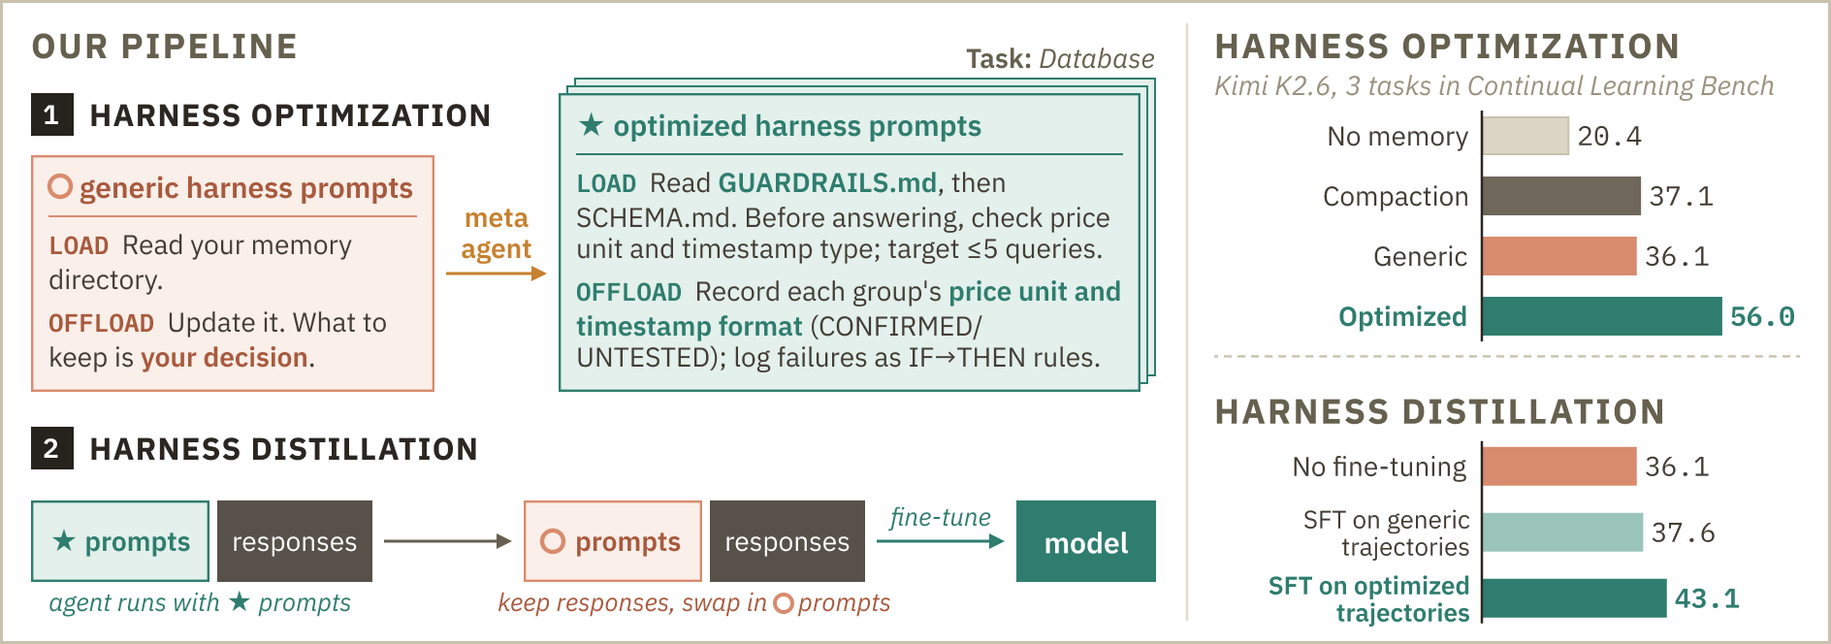
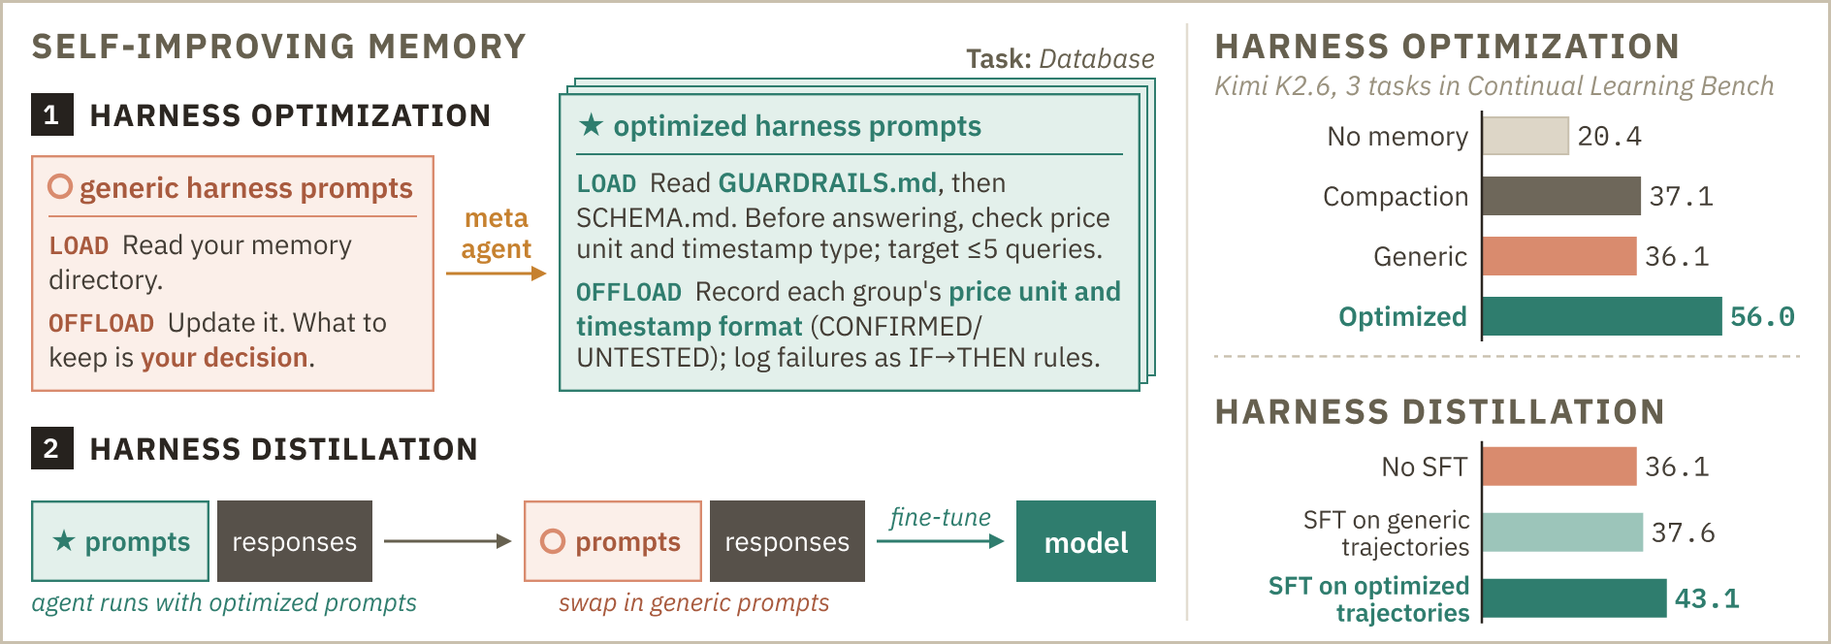
Self-Improving Memory blog: update figures, captions, and wording (#137)
* Update Self-Improving Memory blog figures, captions, and motivation

Figure 1 (teaser v37): retitle the left side "Self-Improving Memory", simplify the prompt captions, and rename the distillation baseline to No SFT. Figure 3 (method overview v20): number the steps 1, 2a, 2b to match the two stages. Figure 5: merge the two panels into one image. Figure 7 (distillation v08): rename No fine-tuning to No SFT.

Make the Figure 1 caption the post overview and drop the separate Overview section. Rewrite all figure captions to be short and self-contained, and state 95% CIs for the error bars. Rewrite the motivation as three steps: agents learn from experience through persistent memory, no single hand-written memory design wins on every Continual Learning Bench task, so the model should design its own memory for each task. Retitle the sections "Motivation: Memory skills should be learned" and "Method: Self-Improving Memory", spell out Continual Learning Bench, and remove semicolons from the prose.

* Self-Improving Memory blog: clarify task vs test score wording

Syncs projects/self_improving_memory/README.md with fairinternal/RAM 67cc670 (jaseweston).

diff --git a/projects/self_improving_memory/README.md b/projects/self_improving_memory/README.md
@@ -86,9 +86,9 @@ MathJax = {
   <a href="fig1_teaser.png"><img src="fig1_teaser.png" alt="Figure 1: the Self-Improving Memory framework, harness optimization and harness distillation, with the results of each" /></a>
 </div>
 
-<p class="sim-figure-hint">Swipe to explore the figure; tap to open it at full size.</p>
+<p class="sim-figure-hint">Swipe to explore the figure, or tap to open it at full size.</p>
 
-_Figure 1. **Self-Improving Memory.** Our framework includes harness optimization and harness distillation. With harness optimization, we reach an average test score of 56.0, compared with 44.6 for the best hand-written prompts and 36.1 for generic prompts. With harness distillation, the fine-tuned model reaches 43.1 using only generic prompts, compared with 37.6 for a model fine-tuned on its own generic-prompt runs._
+_Figure 1. **A model (Kimi-K2.6) teaches itself better memory capabilities.** It first rewrites its own memory prompts for each task, keeping the versions that score best (harness optimization). It then runs with those prompts, swaps them back to generic ones in the recorded runs, and is fine-tuned on the result, so part of what the prompts taught moves into its weights (harness distillation). On three Continual Learning Bench tasks, its optimized prompts beat the best hand-written ones (56.0 vs 44.6). After fine-tuning, it scores 43.1 with only generic prompts, compared with 37.6 when trained on its generic-prompt runs._
 
 ## Overview
 
@@ -104,25 +104,22 @@ In harness distillation, the task agent runs with the optimized prompts, we swap
 The meta agent and the task agent use the same model (Kimi-K2.6), so the model is trained on memory skills it discovered itself.
 Training carries part of the gain from better prompts into the model's weights.
 
-## Motivation: No single memory design wins all tasks
 
-**Memory helps agents learn from experience.**
-An agent working through a stream of related subtasks keeps running into the same things: the same database tables, the same kinds of bugs, the same transmitters on the radio band.
-If it writes down what it learns, later subtasks get easier.
-In our setting, every subtask starts in a fresh session with an empty context; the only thing that carries over from one session to the next is a persistent memory directory, which the agent reads and writes with file tools.
+## Motivation: Memory skills should be learned
 
-**We tested this on three tasks from Continual Learning Bench (CL-Bench) 1.0.**
-In Database, the agent answers questions about a SQLite database it has never seen.
-In Codebase, it fixes bugs in Python repositories.
-In Spectrum, it works out which radio channels are occupied from noisy scans.
+**Agents can improve with experience.**
+An agent that works on multiple related tasks can pick up reusable knowledge from earlier tasks and apply it to later ones.
+Persistent memory makes this possible by letting information pass beyond the boundary of a single task.
+In our setting, every subtask starts in a fresh session with an empty context, and the only thing that carries over is a persistent memory directory that the agent reads and writes with file tools.
 
-**How the agent should use that directory is less clear.**
-We kept the scaffold (OpenCode) and the task agent (Kimi-K2.6) fixed and changed only two prompts: LOAD, shown before each subtask, and OFFLOAD, shown after it.
-Together they tell the agent what to write down, how to organize it, and when to read it back.
-We wrote four versions, each built around a different memory representation, and none of them wins on all three tasks (Figure 2).
+**No single memory design wins on every task.**
+We ran agents on three tasks from Continual Learning Bench 1.0 (database question answering, code repair, and spectrum monitoring) with several hand-engineered memory designs, each built around a different memory representation.
+Each design is a pair of prompts: one for offloading what the agent learned into memory after a task (a step also known as dreaming), and one for loading from memory before the next.
+Echoing the findings of Continual Learning Bench, no single design is best on all tasks (Figure 2).
 
-The right way to use memory depends on the task, and whoever writes the prompt has to guess it.
-Our goal is to teach the model to work this out itself: to learn, for each task, what to remember, how to organize it, and when to read it back.
+**So the model should learn its own memory design.**
+Rather than following a hand-written design, it should decide what to write, how to organize it, and what to recall.
+Self-Improving Memory does this in two stages, harness optimization and harness distillation, which we describe next.
 
 <a id="fig-tasks-vs-harness"></a>
 
@@ -130,27 +127,32 @@ Our goal is to teach the model to work this out itself: to learn, for each task,
   <a href="fig2_tasks_vs_harness.png"><img src="fig2_tasks_vs_harness.png" alt="Figure 2: the three tasks with example subtasks, and test scores of the generic and four human-written harnesses" /></a>
 </div>
 
-<p class="sim-figure-hint">Swipe to explore the figure; tap to open it at full size.</p>
+<p class="sim-figure-hint">Swipe to explore the figure, or tap to open it at full size.</p>
 
-_Figure 2. **No single memory representation wins every task.** Left: the three tasks with an example subtask (input, intermediate tool calls, and the submitted answer or solution). Right: test scores of the generic harness and four human-written harnesses; a triangle marks the best of the five per task._
+_Figure 2. **No single memory representation wins every task.** Left: the three tasks, each with an example subtask (input, tool calls, answer). Right: test scores of the generic harness and four hand-written harnesses that differ only in their memory instructions. ▼ marks the best per task._
 
-## Self-Improving Memory
+## Method: Self-Improving Memory
 
 Our goal is to optimize a task model's weights for continual learning tasks under a fixed generic harness.
-To achieve this, we propose Self-Improving Memory, which follows a Discover-Demonstrate-Distill pipeline: a meta agent first discovers memory-management skills through harness optimization; the task agent then generates trajectories that demonstrate these skills; finally, we distill the demonstrated skills into model weights.
+To achieve this, we propose Self-Improving Memory, which follows a Discover-Demonstrate-Distill pipeline: a meta agent first discovers memory-management skills through harness optimization, the task agent then generates trajectories that demonstrate these skills, and finally we distill the demonstrated skills into model weights.
 Because the meta agent and the task agent use the same model, this process updates the task model's weights to internalize skills discovered by the model itself.
 
-### The generic harness
+### Setup: The generic harness
 
 A *task agent* consists of a task model and a harness.
 We use a file system as persistent memory in our *generic harness*.
 The memory directory starts empty and persists throughout the task stream.
-The generic harness provides file read, write, and edit tools together with two task-independent instructions.
-After a subtask is scored, OFFLOAD asks the task agent to update its persistent memory using the completed interaction.
+The harness provides file-reading, writing, and editing tools, along with two task-independent instructions: LOAD and OFFLOAD.
+After each subtask is scored, an OFFLOAD prompt instructs the model to update its persistent memory based on the completed interaction.
 The live context is then cleared.
-Before the next subtask, LOAD asks the task agent to recover useful information from the memory directory.
-These instructions specify when the agent should interact with memory without prescribing a task-specific representation such as a schema table, skill library, or entity inventory.
-As shown in Figure 3, files rather than a summary in the live context carry information across the subtask boundary.
+Before the next subtask begins, a LOAD prompt allows the model to retrieve relevant information from memory.
+The model may read memory files immediately at the start of a subtask (e.g., README.md) or defer doing so until later in the problem-solving process.
+In the generic harness, the LOAD and OFFLOAD instructions are deliberately concise: they simply direct the model to manage its memory through file-tool calls while leaving the specific strategy to the model itself.
+These instructions can, however, be made more detailed and prescriptive.
+For example, by specifying when the agent should access memory or how information should be organized into tables, skill libraries, or entity inventories.
+We explore such designs in the next subsection.
+
+<!-- As shown in Figure 3 (left), files rather than a summary in the live context carry information across the subtask boundary. -->
 
 <a id="fig-method"></a>
 
@@ -158,24 +160,24 @@ As shown in Figure 3, files rather than a summary in the live context carry info
   <a href="fig3_method.png"><img src="fig3_method.png" alt="Figure 3: method overview" /></a>
 </div>
 
-<p class="sim-figure-hint">Swipe to explore the figure; tap to open it at full size.</p>
+<p class="sim-figure-hint">Swipe to explore the figure, or tap to open it at full size.</p>
 
-_Figure 3. Self-Improving Memory learns memory-management behavior while keeping the generic harness fixed at deployment._
+_Figure 3. **The generic harness and the two stages.** Left: before and after each subtask, LOAD and OFFLOAD prompts make the task agent read and update a memory directory. The context is then cleared, so only the memory files carry over. Right: (1) a meta agent revises the prompts from trajectories and scores. (2a) The agent runs with the optimized prompts, which we then replace with the generic ones so that in (2b) we can fine-tune on these trajectories, with the loss on the model's outputs (dark blocks)._
 
 ### Harness Optimization
 
-We discover task-specific memory-management skills by optimizing the harness instructions.
+Our method first discovers task-specific memory-management skills by optimizing the harness instructions.
 To learn effective memory designs, the agent needs guidance on what to extract from experience, how to organize it, and what to retrieve for later subtasks.
 We therefore make the instructions at the LOAD and OFFLOAD stages learnable, allowing the search to shape both how the agent uses memory and how it updates memory.
 We implement these instructions as two Markdown files that the harness supplies to the task model at the corresponding stages.
-Our meta-optimization loop analyzes task-agent trajectories and evaluates different memory designs to find LOAD and OFFLOAD instructions that maximize the task agent's mean test score.
+Our meta-optimization loop analyzes task-agent trajectories and evaluates different memory designs to find LOAD and OFFLOAD instructions that maximize the task agent's mean score.
 
-The meta-optimization loop consists of a *meta agent*, which analyzes trajectories and scores from the train subtasks to propose revised harness instructions, and an *outer loop*, which evaluates the resulting harnesses and uses test scores to select promising designs for further revision.
+The meta-optimization loop consists of a *meta agent*, which analyzes trajectories and task scores from the train subtasks to propose revised harness instructions, and an *outer loop*, which evaluates the resulting harnesses and uses the resulting task scores to select promising designs for further revision.
 We implement this search as follows:
 
 - **Initialize the pool.** We start with four human-written harnesses representing summary, retrieval, skill-library, and hypothesis-tracking memory designs.
 - **Evaluate the harnesses.** For each unevaluated candidate, the task agent executes the full task stream five times, producing trajectories, subtask scores, and memory directories.
-- **Select promising designs.** We rank the pool by mean test score across the five runs and select the top four harnesses as parents for revision.
+- **Select promising designs.** We rank the pool by mean task score across the five runs and select the top four harnesses as parents for revision.
 - **Analyze experience and propose new designs.** For each parent, a meta agent receives the task-agent message lists, subtask scores, and final memory directories from the train subtasks. It identifies failures in how the task agent constructs or reuses memory and proposes instruction changes to address them. To analyze the long trajectories, it first summarizes each subtask, then analyzes each complete run, and finally consolidates evidence across runs into revised LOAD and OFFLOAD instructions. Each revised instruction pair enters the pool as a new candidate for evaluation.
 
 We repeat this procedure for a given number of iterations and select the highest-ranking surviving harness.
@@ -184,11 +186,11 @@ We repeat this procedure for a given number of iterations and select the highest
 
 **Demonstrate.**
 We turn the discovered memory-management and task-solving behaviors into training demonstrations under the generic harness.
-For each task, we select the harness with the highest mean test score and run the base task model under this optimized harness on the train subtasks.
+For each task, we select the harness with the highest mean task score and run the base task model under this optimized harness on the train subtasks.
 We log every language model call, including its prompt, response, reasoning content, tool calls and arguments, and the corresponding tool responses.
 We then replace the optimized LOAD and OFFLOAD instructions wherever they appear in the recorded history with their generic counterparts.
 This replacement works because the demonstrated behavior stays compatible with the generic instructions: the optimized harness specifies a memory design, while the generic harness leaves those choices to the model.
-Compatible behaviors include *organizing memory files* (`QUICKSTART.md` for repository metadata, `REGISTRY.md` for reusable fixes, and `SCHEMA.md` for schema facts), *recording useful facts* (table relationships, column types, price units, timestamp encodings, and test commands), and *reusing problem-solving strategies* (running tests before editing, checking analogous functions, and verifying join keys before aggregation).
+For example, compatible behaviors include *organizing memory files* (`QUICKSTART.md` for repository metadata, `REGISTRY.md` for reusable fixes, and `SCHEMA.md` for schema facts), *recording useful facts* (table relationships, column types, price units, timestamp encodings, and test commands), and *reusing problem-solving strategies* (running tests before editing, checking analogous functions, and verifying join keys before aggregation).
 
 **Distill.**
 For $K$ tasks, let $\mathcal D_k$ denote the transformed demonstrations from the train subtasks of task $k$.
@@ -206,7 +208,7 @@ $$
 $$
 
 Here $A_\tau$ indexes assistant tokens, including reasoning and tool calls, while instructions, task requests, and tool responses provide context and are masked from the loss.
-The count $N_k=\sum_{\tau\in\mathcal D_k}|A_\tau|$ is the number of supervised tokens for task $k$; normalization by $N_k$ and averaging over $K$ tasks give each task equal weight.
+The count $N_k=\sum_{\tau\in\mathcal D_k}|A_\tau|$ is the number of supervised tokens for task $k$. Normalization by $N_k$ and averaging over $K$ tasks give each task equal weight.
 This objective trains the model to internalize the demonstrated capabilities in its weights and reproduce them under generic memory instructions.
 
 
@@ -217,10 +219,10 @@ For each task, we initialize the search with four human-written seed harnesses: 
 We run four search generations on Database and Codebase and three on Spectrum, generating four new harnesses per generation and evaluating each candidate over five complete task runs.
 We finetune Kimi-K2.6 with LoRA applied to attention projections, using rank 8, scaling factor 16, and no dropout.
 
-We cut each CL-Bench task stream into train and test subtasks at an environment transition: Database moves to a migrated database, Codebase to new repositories, and Spectrum from wideband to narrowband activity.
-The meta agent analyzes only train trajectories and distillation trains only on them; test subtasks are used for scoring.
+We cut each Continual Learning Bench task stream into train and test subtasks at an environment transition: Database moves to a migrated database, Codebase to new repositories, and Spectrum from wideband to narrowband activity.
+The meta agent analyzes only train trajectories and distillation trains only on them. Test subtasks are used for scoring.
 
-We compare four settings to assess the effects of persistent memory and model finetuning. *No memory* clears the base model's context at each subtask boundary with neither a summary nor a memory directory, so no information carries over between subtasks. *Summary-based compaction* summarizes the base model's context at the boundary and passes the summary to the next subtask. Under the *Generic harness*, the base model uses the task-independent LOAD and OFFLOAD instructions defined above, with files carrying information across subtask boundaries. The *Generic harness with a finetuned model* compares supervised finetuning (SFT) on two sets of trajectories: *SFT on generic trajectories*, collected with the generic harness, and *SFT on optimized trajectories* (Harness Distillation), the Self-Improving Memory model trained on optimized-harness trajectories rewritten with generic instructions; both finetuned models use the same instructions and tools during evaluation, and the base model under the generic harness is the *No fine-tuning* reference.
+We compare four settings to assess the effects of persistent memory and model finetuning. *No memory* clears the base model's context at each subtask boundary with neither a summary nor a memory directory, so no information carries over between subtasks. *Summary-based compaction* summarizes the base model's context at the boundary and passes the summary to the next subtask. Under the *Generic harness*, the base model uses the task-independent LOAD and OFFLOAD instructions defined above, with files carrying information across subtask boundaries. The *Generic harness with a finetuned model* compares supervised finetuning (SFT) on two sets of trajectories: *SFT on generic trajectories*, collected with the generic harness, and *SFT on optimized trajectories* (Harness Distillation), the Self-Improving Memory model trained on optimized-harness trajectories rewritten with generic instructions. Both finetuned models use the same instructions and tools during evaluation, and the base model under the generic harness is the *No SFT* reference.
 
 ### Automatic harness optimization delivers substantial gains
 
@@ -228,7 +230,7 @@ We select the best observed optimized harness separately for each task.
 Averaging the three selected task scores gives a mean of 56.0, an improvement of 11.4 points over the human-written seeds selected for each task and 19.9 points over Generic (Figure 4).
 The optimized harnesses improve over the selected human-written seeds on all three tasks, with the largest gain on Codebase (20.6 points).
 On Spectrum, Generic and Optimized have nearly the same raw first-subtask score (21.7 and 21.9), but reach test means of 42.5 and 49.9 as experience accumulates (Figure 5a).
-Both the human-written seeds and optimized harnesses are selected by test score, so these are the best observed scores among evaluated candidates.
+Both the human-written seeds and optimized harnesses are selected by task score, so these are the best observed scores among evaluated candidates.
 
 <a id="fig-harness-results"></a>
 
@@ -236,9 +238,9 @@ Both the human-written seeds and optimized harnesses are selected by test score,
   <a href="fig4_harness_results.png"><img src="fig4_harness_results.png" alt="Figure 4: harness optimization results per task" /></a>
 </div>
 
-<p class="sim-figure-hint">Swipe to explore the figure; tap to open it at full size.</p>
+<p class="sim-figure-hint">Swipe to explore the figure, or tap to open it at full size.</p>
 
-_Figure 4. **The optimized harnesses improve over the selected human-written seeds on all three tasks.** Harness optimization results. +N is the gain over the best human-written harness per task._
+_Figure 4. **Optimized harnesses beat the best hand-written harness on every task.** Error bars show 95% CIs. Best human-written is the best of the four hand-written harnesses for each task, and +N is the Optimized gain over it._
 
 ### Meta-optimization requires evaluation and selection
 
@@ -248,21 +250,20 @@ Progress therefore depends on evaluating proposals and retaining the best observ
 
 <a id="fig-learning-search"></a>
 
-<div class="sim-figure sim-figure--pair">
-  <a href="fig5a_subtask_curves.png"><img src="fig5a_subtask_curves.png" alt="Figure 5a: performance across subtasks" /></a>
-  <a href="fig5b_search_trace.png"><img src="fig5b_search_trace.png" alt="Figure 5b: progress of harness optimization" /></a>
+<div class="sim-figure" style="--figure-width: 100%; --mobile-width: 900px;">
+  <a href="fig5_learning_and_search.png"><img src="fig5_learning_and_search.png" alt="Figure 5: left, subtask scores across the task stream. Right, every harness evaluated during the search" /></a>
 </div>
 
-<p class="sim-figure-hint">Swipe to explore the figure; tap to open it at full size.</p>
+<p class="sim-figure-hint">Swipe to explore the figure, or tap to open it at full size.</p>
 
-_Figure 5. Learning across subtasks and progress of harness optimization. (a) Performance across subtasks. Curves use the same runs as the bars in Figure 4 and are smoothed separately on each side of the train/test transition. (b) Progress of harness optimization. Each point is one evaluated harness; the step line shows the best observed score. Steps 0 and 1 denote Generic and human-written seeds; subsequent steps are search iterations._
+_Figure 5. **Learning across subtasks, and search progress.** Left: subtask scores for the runs in Figure 4, where the dashed line marks the train/test environment shift. Right: each dot is one evaluated harness (iteration 0: Generic, iteration 1: hand-written seeds, iterations 2 and later: harnesses proposed by the meta agent). The line tracks the best score so far._
 
 ### Case Study of Meta-Optimization
 
 Figure 6 illustrates how trajectory reports guide revisions of the Codebase memory harness.
-The Summary harness scores 34.3, barely above Generic at 33.5 and well below the best seed at 43.7; its report identifies growing monolithic notes and repeated repository discovery.
+The Summary harness scores 34.3, barely above Generic at 33.5 and well below the best seed at 43.7. Its report identifies growing monolithic notes and repeated repository discovery.
 A revision that reuses recorded paths and retains failure rules scores 52.2.
-The next report diagnoses an append-only file without an index mapping symptoms to fixes; a revision with a compact quickstart, an indexed registry, and separate fix files scores 55.7.
+The next report diagnoses an append-only file without an index mapping symptoms to fixes, and a revision with a compact quickstart, an indexed registry, and separate fix files scores 55.7.
 An alternative Summary revision that retains details of only the last two fixes scores 36.6.
 
 <a id="fig-case-meta-optimization"></a>
@@ -271,18 +272,18 @@ An alternative Summary revision that retains details of only the last two fixes 
   <a href="fig6_case_study.png"><img src="fig6_case_study.png" alt="Figure 6: revisions of the Codebase memory harness guided by trajectory reports" /></a>
 </div>
 
-<p class="sim-figure-hint">Swipe to explore the figure; tap to open it at full size.</p>
+<p class="sim-figure-hint">Swipe to explore the figure, or tap to open it at full size.</p>
 
-_Figure 6. Revisions of the Codebase memory harness guided by trajectory reports. Reports identify repeated exploration and missing retrieval structure, motivating changes to LOAD and OFFLOAD._
+_Figure 6. **How the meta agent revises the Codebase harness.** Each box shows a harness's LOAD and OFFLOAD prompts and test score. Each report diagnoses that harness's trajectories and motivates the next revision. Underlines mark the key changes._
 
 ### Training internalizes part of these gains
 
 We finetune on demonstrations from train subtasks and evaluate generalization to test subtasks of the same tasks after domain shifts.
-We compare SFT on optimized trajectories (Harness Distillation), trained on optimized-harness trajectories rewritten with generic instructions, with SFT on generic trajectories, trained on generic-harness trajectories; both use the same LoRA recipe and are evaluated with the generic harness.
-Across ten matched evaluation seeds, Harness Distillation reaches an overall mean test score of 43.1 versus 37.6 for SFT on generic trajectories, a gain of 5.5 points (14.7%; Figure 7).
-Its 7.0-point gain over No fine-tuning (36.1, the same reference evaluation as Generic in Figure 4) is descriptive because the base model was evaluated separately.
+We compare SFT on optimized trajectories (Harness Distillation), trained on optimized-harness trajectories rewritten with generic instructions, with SFT on generic trajectories, trained on generic-harness trajectories. Both use the same LoRA recipe and are evaluated with the generic harness.
+Across ten matched evaluation seeds, Harness Distillation reaches an overall mean test score of 43.1 versus 37.6 for SFT on generic trajectories, a gain of 5.5 points (14.7%, Figure 7).
+Its 7.0-point gain over No SFT (36.1, the same reference evaluation as Generic in Figure 4) is descriptive because the base model was evaluated separately.
 The improved test scores show that the finetuned model generalizes within the same tasks under domain shift, using generic memory instructions.
-We hypothesize that the gain partly reflects improved memory organization and retrieval, alongside task-solving behavior; isolating this mechanism requires direct behavioral analysis.
+We hypothesize that the gain partly reflects improved memory organization and retrieval, alongside task-solving behavior, but isolating this mechanism requires direct behavioral analysis.
 
 <a id="fig-distillation-results"></a>
 
@@ -290,9 +291,9 @@ We hypothesize that the gain partly reflects improved memory organization and re
   <a href="fig7_distillation.png"><img src="fig7_distillation.png" alt="Figure 7: model distillation under generic instructions" /></a>
 </div>
 
-<p class="sim-figure-hint">Swipe to explore the figure; tap to open it at full size.</p>
+<p class="sim-figure-hint">Swipe to explore the figure, or tap to open it at full size.</p>
 
-_Figure 7. **The generic-trajectory control suggests that optimized harnesses produce more effective demonstrations for a model deployed with generic instructions.** Model distillation under generic instructions. All models are evaluated with the generic harness; SFT on optimized trajectories (Harness Distillation) finetunes on optimized-harness trajectories whose instructions are replaced with the generic ones. +N is the gain over No fine-tuning._
+_Figure 7. **Harness distillation moves part of the gain into the model's weights.** All models run with the generic harness. SFT on generic trajectories trains on generic-harness runs, and SFT on optimized trajectories trains on optimized-harness runs with the prompts swapped back to generic. Error bars show 95% CIs, and +N is the gain over No SFT._
 
 ## Conclusion
 
